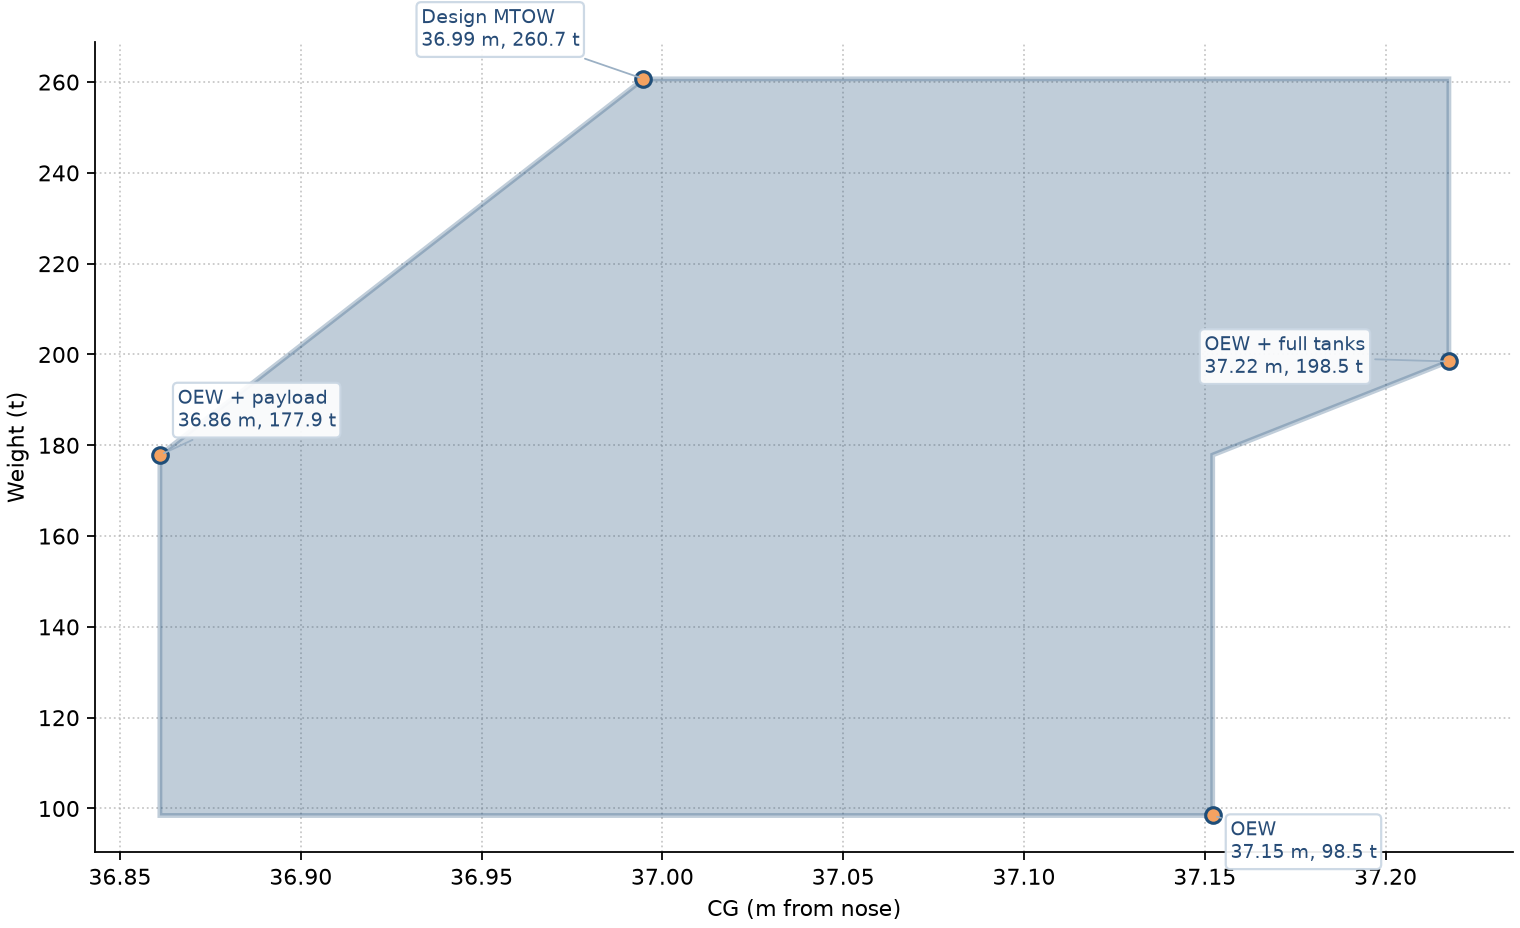
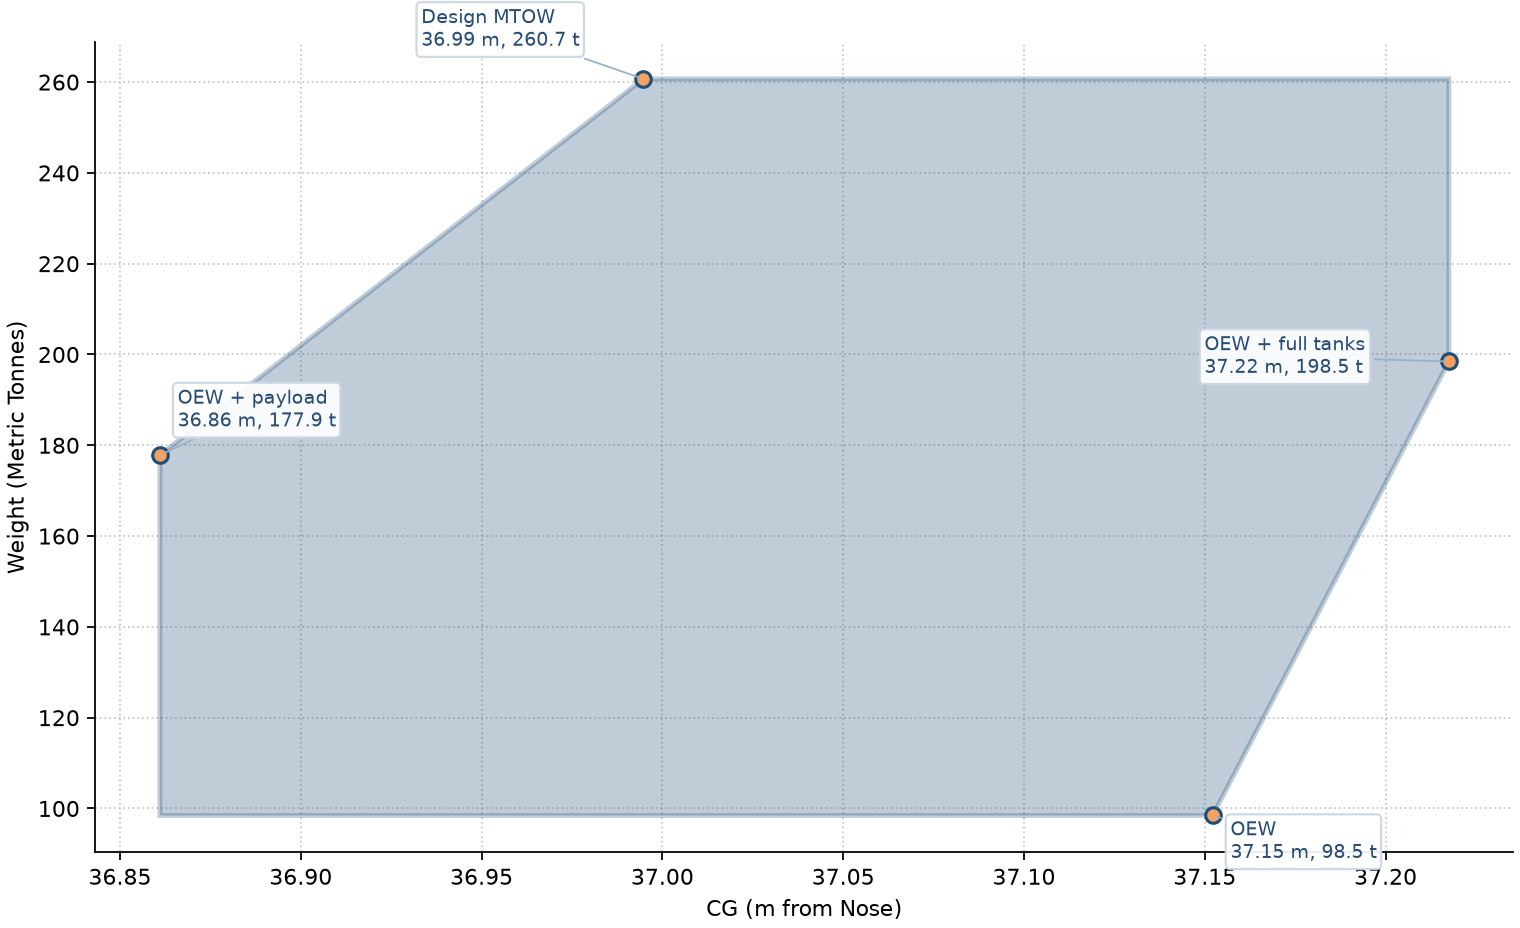
[bugfix] remove dent from W&B plot

Changed region(s): [[0.773, 0.375, 0.9586, 0.875], [0.0, 0.3438, 0.0309, 0.625], [0.4638, 0.9688, 0.5875, 1.0]]

diff --git a/tools/weight_calc.py b/tools/weight_calc.py
@@ -425,7 +425,7 @@ def write_payload_range_diagram(
     )
 
     ax.set_xlabel("Range (km)")
-    ax.set_ylabel("Payload (t)")
+    ax.set_ylabel("Payload (Metric Tonnes)")
     ax.set_xlim(left=0)
     ax.set_ylim(bottom=0)
     ax.grid(True, which="major", linestyle=":", linewidth=0.8, alpha=0.7)
@@ -452,6 +452,11 @@ def _cg_limits_m(np_mm, mac_mm, sm_min=SM_MIN, sm_max=SM_MAX):
     x_fwd_m = (np_mm - sm_max * mac_mm) * 1e-3
     x_aft_m = (np_mm - sm_min * mac_mm) * 1e-3
     return x_fwd_m, x_aft_m
+
+
+def _static_margin(cg_m, np_m, mac_m):
+    """Static margin as a fraction of MAC: (x_NP − x_CG) / MAC."""
+    return (np_m - cg_m) / mac_m
 
 
 def _state_point(specs, oew, w_payload, w_fuel, label=None):
@@ -494,22 +499,24 @@ def loading_hull_boundary(specs, oew, mtow, w_payload_max, w_fuel_max):
     """
     Closed boundary of loading hull H (conservative, certification-style).
 
-    OEW and OEW+payload are opposite corners of a ZFW payload rectangle; the
-    outer walk uses both L-paths (forward/bottom and aft/top). Fuel fill /
-    drain and the constant-MTOW trade are straight lines.
+    Fuel-loading edges are straight lines (CG ≈ linear with fuel mass):
+      OEW + payload ↔ Design MTOW
+      OEW ↔ OEW + full tanks
+
+    Payload-loading edges use axis-aligned L vertices (nontrivial CG path):
+      OEW ↔ OEW + payload
+      OEW + full tanks ↔ Design MTOW
 
     Walk from OEW:
-      ZFW box L → max-payload fuel line → MTOW trade →
-      full-fuel box edge → return via aft-top of ZFW rectangle.
+      payload L → max-payload fuel line → full-fuel payload L → zero-payload fuel line.
     """
     w_fuel_design = mtow - oew - w_payload_max
-    w_payload_full = mtow - oew - w_fuel_max
     if w_fuel_design < 0:
         raise ValueError(
             f"Design payload ({w_payload_max:.1f} kg) exceeds MTOW−OEW "
             f"({mtow - oew:.1f} kg)"
         )
-    if w_payload_full < 0:
+    if w_fuel_max > (mtow - oew) + 1e-6:
         raise ValueError(
             f"Full tanks ({w_fuel_max:.1f} kg) exceed MTOW−OEW "
             f"({mtow - oew:.1f} kg)"
@@ -520,8 +527,6 @@ def loading_hull_boundary(specs, oew, mtow, w_payload_max, w_fuel_max):
             f"({w_fuel_max:.1f} kg)"
         )
 
-    mtow_full_tanks = _state_point(specs, oew, w_payload_full, w_fuel_max)
-
     corners = [
         _state_point(specs, oew, 0.0, 0.0, "OEW"),
         _state_point(specs, oew, w_payload_max, 0.0, "OEW + payload"),
@@ -529,17 +534,11 @@ def loading_hull_boundary(specs, oew, mtow, w_payload_max, w_fuel_max):
         _state_point(specs, oew, 0.0, w_fuel_max, "OEW + full tanks"),
     ]
 
-    # Other opposite-corner knee of the ZFW rectangle: OEW CG at payload weight.
-    oew_cg_at_payload_w = _box_corner(
-        corners[0]["cg_m"], corners[1]["weight_t"]
-    )
-
     segments = [
-        box_payload_edge(corners[0], corners[1]),
-        [corners[1], corners[2]],
-        [corners[2], mtow_full_tanks],
-        box_payload_edge(mtow_full_tanks, corners[3]),
-        [corners[3], oew_cg_at_payload_w, corners[0]],
+        box_payload_edge(corners[0], corners[1]),  # OEW → OEW+payload (vertices)
+        [corners[1], corners[2]],                  # OEW+payload → Design MTOW (fuel line)
+        box_payload_edge(corners[2], corners[3]),  # Design MTOW → OEW+full tanks (vertices)
+        [corners[3], corners[0]],                  # OEW+full tanks → OEW (fuel line)
     ]
 
     boundary = []
@@ -606,7 +605,7 @@ def write_weight_balance_diagram(
     """
     Weight–CG diagram: certified region H ∩ E only.
 
-    H  = loading hull (straight payload / fuel edges), W≤MTOW
+    H  = loading hull (fuel lines + payload L-vertices), W≤MTOW
     E  = SM envelope [OEW, MTOW] × [x_fwd, x_aft]
 
     CG axis in metres from nose; weight axis in tonnes.
@@ -656,10 +655,21 @@ def write_weight_balance_diagram(
             zorder=4,
         )
 
+    np_m = np_mm * 1e-3
+    mac_m = mac_mm * 1e-3
+    for p in corners:
+        p["sm"] = _static_margin(p["cg_m"], np_m, mac_m)
+
     # Drop design corners outside the SM CG band (e.g. OEW aft of x_aft).
     corners_in = [
         p for p in corners if x_fwd_m <= p["cg_m"] <= x_aft_m
     ]
+    corners_by_label = {p["label"]: p for p in corners}
+    # Loading-hull CG extrema: most-forward (max SM) and most-aft (min SM).
+    sm_extrema = {
+        "OEW + payload": corners_by_label["OEW + payload"]["sm"],
+        "OEW + full tanks": corners_by_label["OEW + full tanks"]["sm"],
+    }
 
     ax.plot(
         [p["cg_m"] for p in corners_in],
@@ -703,8 +713,8 @@ def write_weight_balance_diagram(
             zorder=7,
         )
 
-    ax.set_xlabel("CG (m from nose)")
-    ax.set_ylabel("Weight (t)")
+    ax.set_xlabel("CG (m from Nose)")
+    ax.set_ylabel("Weight (Metric Tonnes)")
     ax.grid(True, which="major", linestyle=":", linewidth=0.8, alpha=0.7)
     ax.spines["top"].set_visible(False)
     ax.spines["right"].set_visible(False)
@@ -722,10 +732,11 @@ def write_weight_balance_diagram(
             "w_max_t": mtow_t,
             "sm_min": sm_min,
             "sm_max": sm_max,
-            "np_m": np_mm * 1e-3,
-            "mac_m": mac_mm * 1e-3,
+            "np_m": np_m,
+            "mac_m": mac_m,
         },
         "points": corners_in,
+        "sm_extrema": sm_extrema,
         "certified": {
             "n_vertices": len(poly_cert),
             "cg_min_m": min((p[0] for p in poly_cert), default=None),
